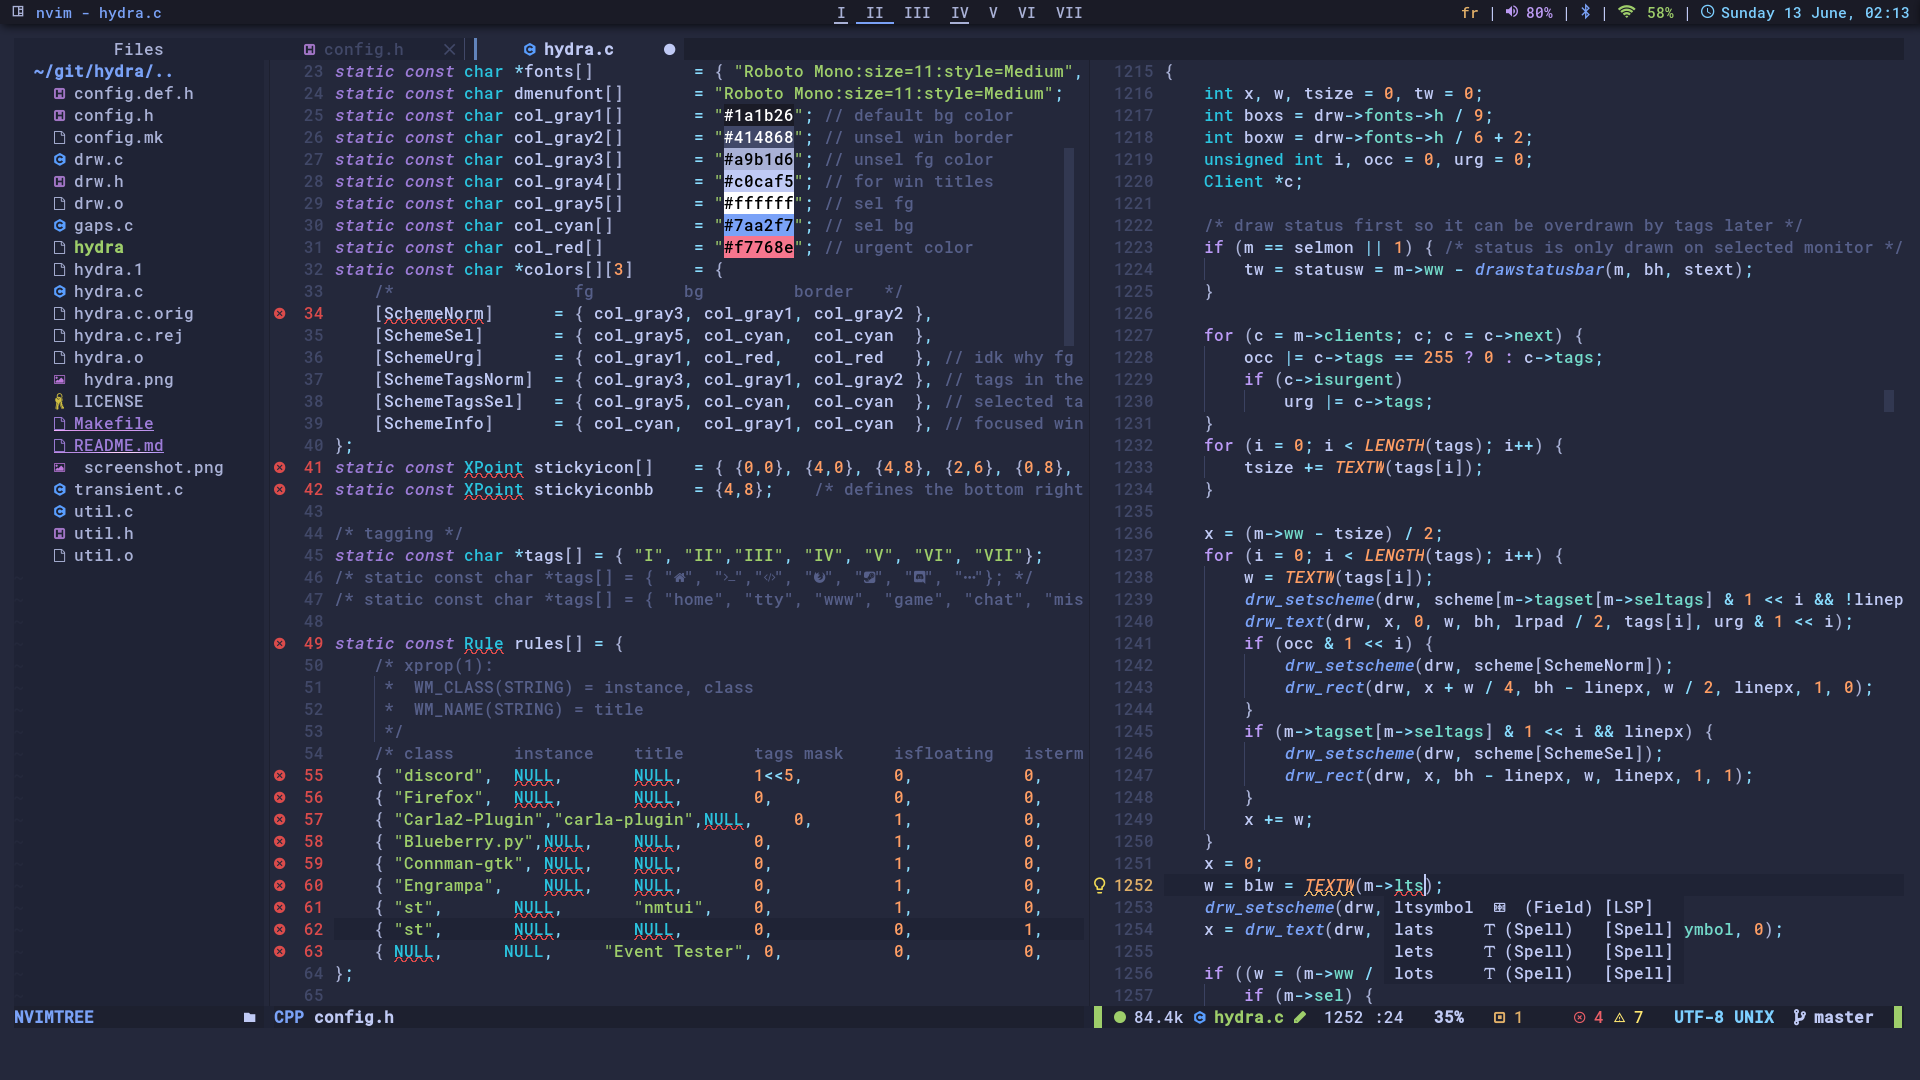
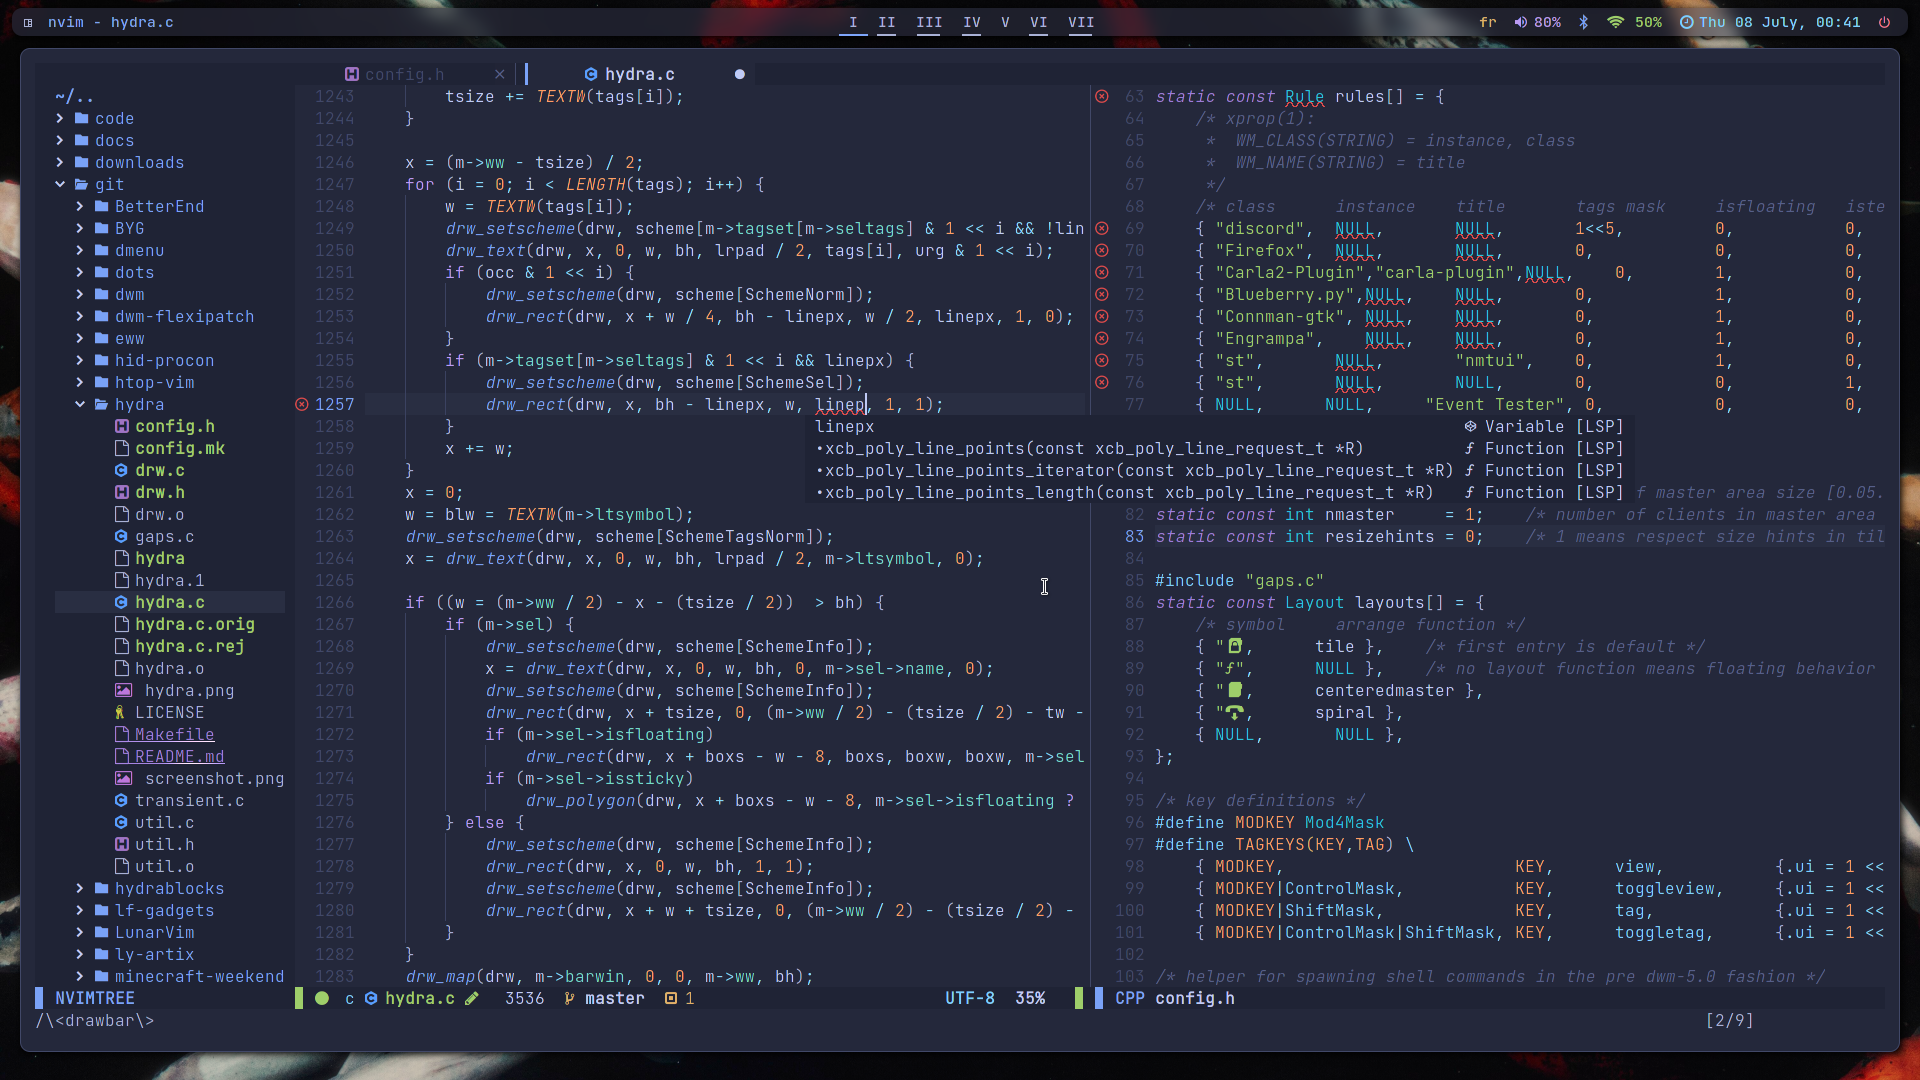
update readme + screenshots

Changed region(s): [[0.0, 0.0, 1.0, 1.0], [0.5625, 0.6111, 0.5938, 0.6417], [0.5625, 0.1222, 0.5938, 0.1528]]

diff --git a/README.md b/README.md
@@ -1,20 +1,21 @@
 # init.lua
 
-this is my bloated [neovim](https://github.com/neovim/neovim) config\
-neovim nightly 0.5+ is required
+this is my [neovim](https://github.com/neovim/neovim) config\
+neovim 0.5+ is required
 
 here are a few screenshots :\
-![screen1](https://raw.githubusercontent.com/nytouu/dots/master/config/nvim/screen1.png)
-![screen2](https://raw.githubusercontent.com/nytouu/dots/master/config/nvim/screen2.png)
-![screen3](https://raw.githubusercontent.com/nytouu/dots/master/config/nvim/screen3.png)
+![screen1](https://raw.githubusercontent.com/nytouu/nvim/master/screen1.png)
+![screen2](https://raw.githubusercontent.com/nytouu/nvim/master/screen2.png)
+![screen3](https://raw.githubusercontent.com/nytouu/nvim/master/screen3.png)
 
 # plugins
 
 check lua/plugins.lua to see what plugins i'm using
 
-# config
+# inspirations
 
-this config is kinda based on chris@machine's [LunarVim](https://github.com/ChristianChiarulli/LunarVim)
+this config is by on chris@machine's [LunarVim](https://github.com/ChristianChiarulli/LunarVim)\
+and siduck76's [NvChad](https://github.com/siduck76/NvChad)
 
 # TODO
 
